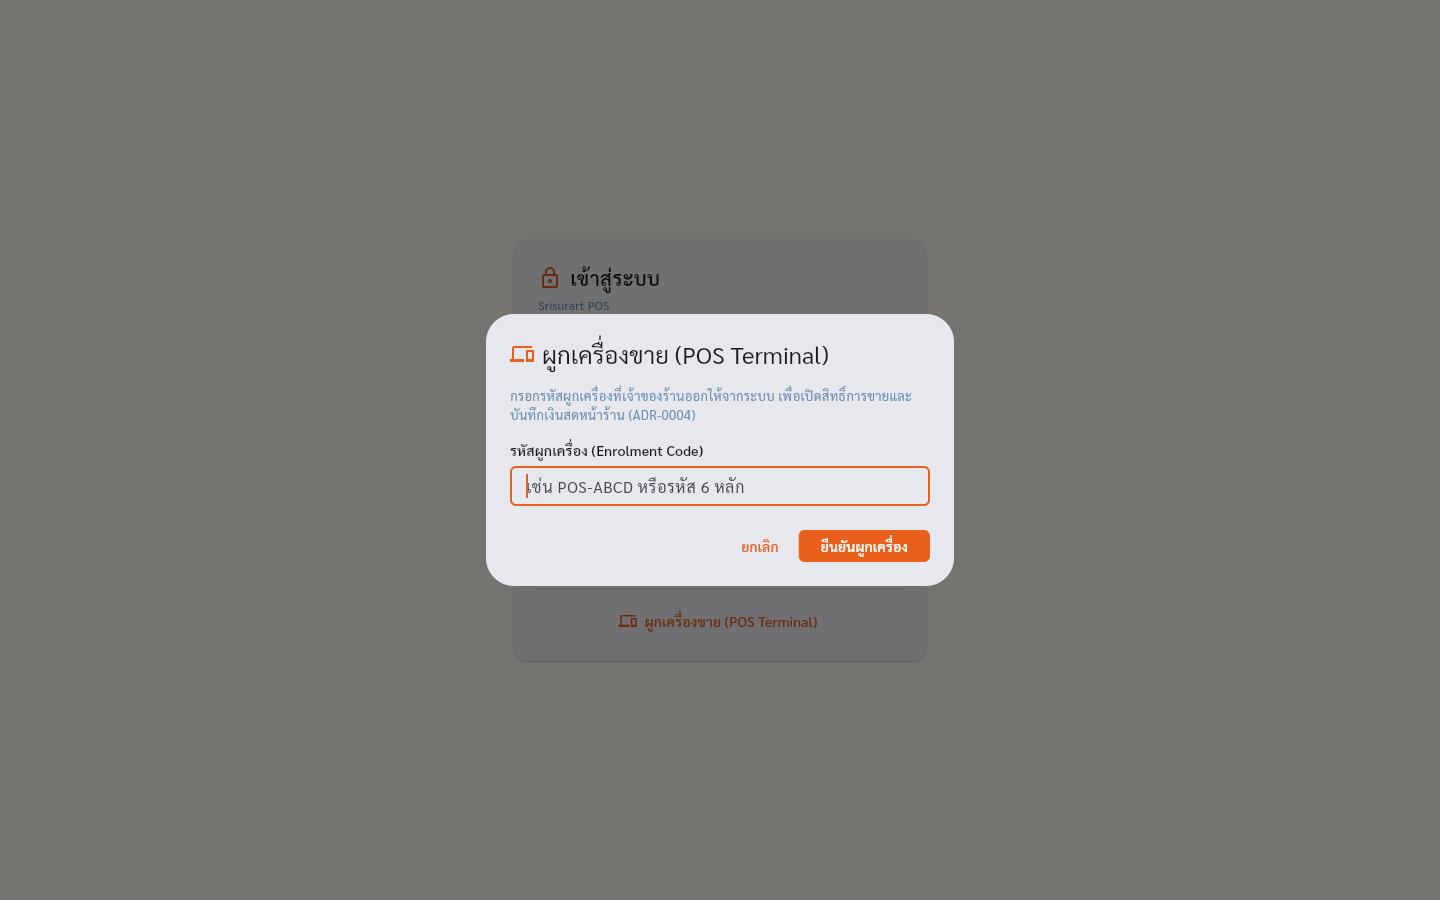
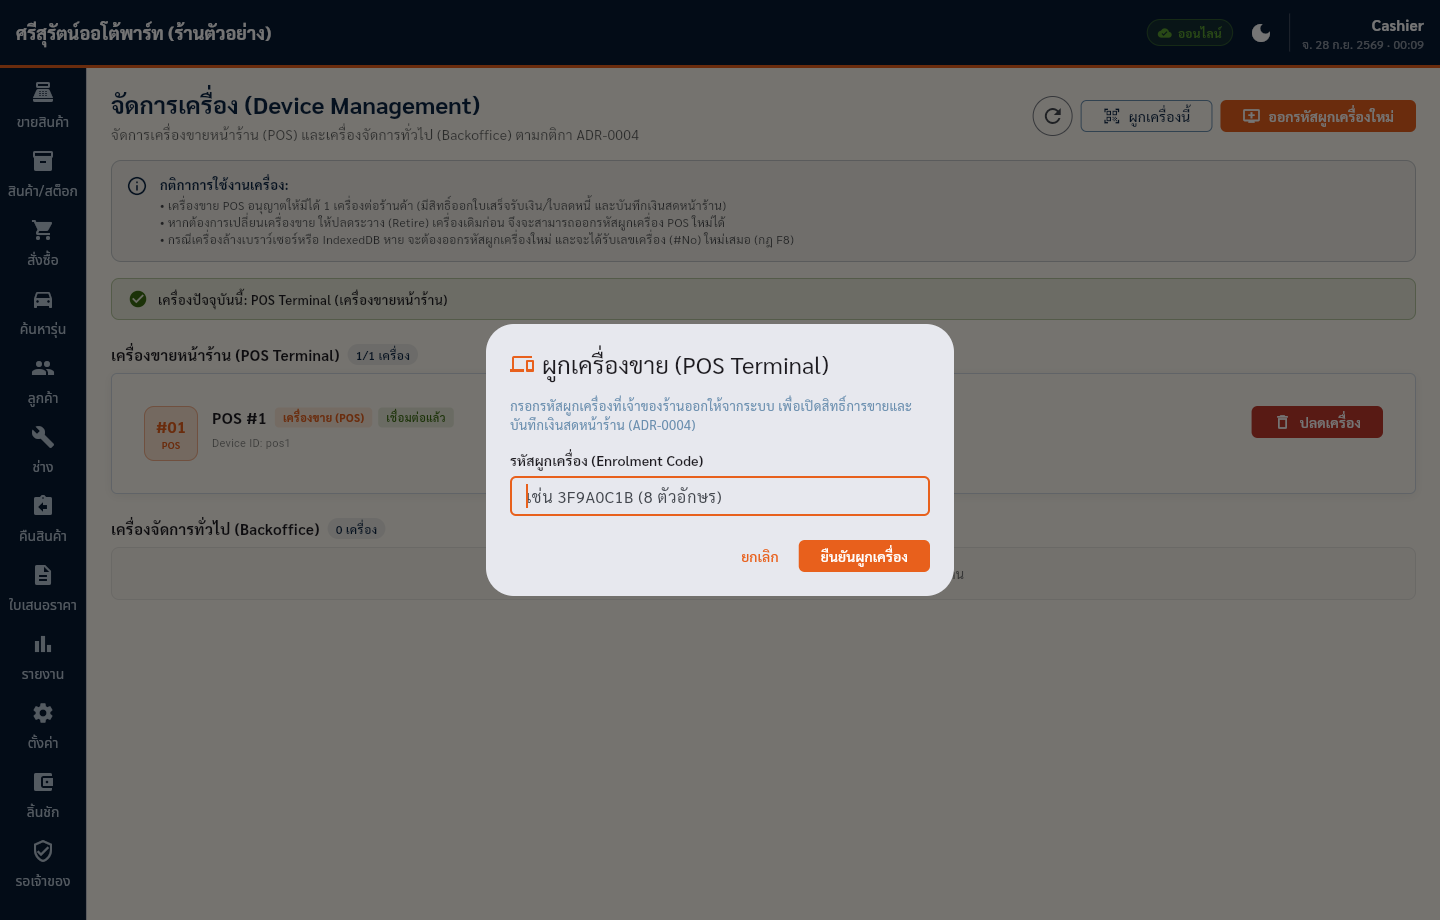
docs(manual): standards-review fixes; post-fix screenshots (next shift, reports phone, enrol dialog, enrol code, devices)

diff --git a/docs/tutorial/sri-pos-manual/01-counter-staff.html b/docs/tutorial/sri-pos-manual/01-counter-staff.html
@@ -46,7 +46,7 @@
     <a class="toc-row" href="#receipt"><span class="n">4</span><span class="t">ราคาช่าง · เครดิตช่าง · ใบเสร็จ <span class="en">Mechanic &amp; receipt</span></span><span class="pg">5</span></a>
     <a class="toc-row" href="#park"><span class="n">5</span><span class="t">พักบิล · ใบเสนอราคา <span class="en">Park &amp; quotes</span></span><span class="pg">6</span></a>
     <a class="toc-row" href="#returns"><span class="n">6</span><span class="t">คืนสินค้า · ยกเลิกบิล <span class="en">Returns &amp; void</span></span><span class="pg">7</span></a>
-    <a class="toc-row" href="#close"><span class="n">7</span><span class="t">เงินเข้า-ออก · ปิดกะ · เปิดกะถัดไป <span class="en">Drawer &amp; close</span></span><span class="pg">8</span></a>
+    <a class="toc-row" href="#close"><span class="n">7</span><span class="t">เงินเข้า-ออก · ปิดกะ · เปิดกะถัดไป <span class="en">Drawer, close &amp; next shift</span></span><span class="pg">8</span></a>
     <a class="toc-row" href="#offline"><span class="n">8</span><span class="t">เมื่อเน็ตหลุด · สถานะซิงก์ <span class="en">Offline &amp; sync</span></span><span class="pg">9</span></a>
     <a class="toc-row" href="#errors"><span class="n">9</span><span class="t">ข้อความผิดพลาดที่พบบ่อย · ข้อจำกัด <span class="en">Errors</span></span><span class="pg">10</span></a>
   </div>
@@ -157,7 +157,7 @@
     <tr><th>ถ้าเห็น</th><th>หมายความว่า / ทำอย่างไร</th></tr>
     <tr><td><span class="msg">ไม่พบอะไหล่สำหรับ "{query}"</span> · <span class="msg">ลองค้นหาด้วยชื่ออื่น หรือตรวจสอบฟิลด์ Compat ในสต็อก</span></td><td>ลองคำสั้นลง (เช่น "Vigo" แทน "Toyota Vigo 2010") · ถ้ารู้ว่ามีของแต่ไม่ขึ้น ให้เจ้าของร้านเติมช่อง "ใช้กับรถรุ่น" ของสินค้านั้น (ภาค 02 หัวข้อ 4)</td></tr>
   </table>
-  <p class="muted">ผลค้นหาดีแค่ไหนขึ้นกับการกรอกช่อง "ใช้กับรถรุ่น" ตอนเพิ่มสินค้า · ในภาพ คำที่ตรงกับคำค้นถูกไฮไลต์สีส้มทับจนอ่านยาก (ข้อสังเกตจากการถ่ายภาพ ยังไม่มี issue)</p>
+  <p class="muted">ผลค้นหาดีแค่ไหนขึ้นกับการกรอกช่อง "ใช้กับรถรุ่น" ตอนเพิ่มสินค้า</p>
   <div class="runfoot"><span>ภาค 01 · พนักงานหน้าร้าน</span><span class="pagenum">4.1</span></div>
 </section>
 
@@ -218,7 +218,7 @@
 
   <h2 class="sub" id="quote-a4">พิมพ์ใบเสนอราคา A4 ให้ลูกค้า <span class="en">A4 quote</span></h2>
   <ol class="steps">
-    <li><span class="st-title">เมนู <span class="ui ghost">ใบเสนอราคา</span> → ค้นในช่อง <span class="ui ghost">🔍 ค้นเลขที่ / ลูกค้า / ช่าง</span></span>หรือกรองด้วย <span class="ui ghost">ยังใช้ได้</span> — ป้ายบนแถวบอก <span class="msg">ยังใช้ได้ {validDays} วัน</span> (วันที่เหลือ) ·<span class="msg">หมดอายุ</span> · <span class="msg">✓ แปลงแล้ว</span></li>
+    <li><span class="st-title">เมนู <span class="ui ghost">ใบเสนอราคา</span> → ค้นในช่อง <span class="ui ghost">🔍 ค้นเลขที่ / ลูกค้า / ช่าง</span></span>หรือกรองด้วย <span class="ui ghost">ยังใช้ได้</span> — ป้ายบนแถวบอก <span class="msg">ยังใช้ได้ {validDays} วัน</span> (วันที่เหลือ) · <span class="msg">หมดอายุ</span> · <span class="msg">✓ แปลงแล้ว</span></li>
     <li><span class="st-title">กด <span class="ui ghost">ดู</span> ที่แถว</span><span class="see">ใบ A4 หัว <span class="msg">ใบเสนอราคา</span> / <span class="msg">QUOTATION</span> ชื่อลูกค้า (<span class="msg">— ลูกค้าทั่วไป —</span> ถ้าไม่ได้เลือก) วันที่ <span class="msg">ใช้ได้ถึง</span> รายการ ยอดรวม เงื่อนไข และช่องลายมือชื่อ</span></li>
     <li><span class="st-title">กดไอคอนเครื่องพิมพ์ในแถบสีส้มด้านล่าง</span>→ หน้าต่างพิมพ์ของเครื่อง (เลือก A4 หรือบันทึกเป็น PDF) · ไอคอนแชร์ข้าง ๆ ใช้ส่งไฟล์</li>
     <li><span class="st-title">ปิดด้วย ✕ มุมซ้ายบน</span>หรือกด <span class="ui ghost">✓ แปลงเป็นการขาย</span> มุมขวาบนถ้าลูกค้าตกลงซื้อเลย (มีเฉพาะใบที่ยังไม่หมดอายุและยังไม่แปลง)</li>
@@ -293,7 +293,7 @@
   <p>ระบบรองรับหลายกะต่อวัน (08 §11 · #452) — เช่น เปลี่ยนคนเฝ้าเคาน์เตอร์ตอนบ่าย</p>
   <ol class="steps">
     <li><span class="st-title">ปิดกะปัจจุบันให้เรียบร้อยตามขั้นตอนด้านบน</span></li>
-    <li><span class="st-title">ที่หน้า <span class="ui ghost">ลิ้นชัก</span> ทั้งสองแท็บจะมีการ์ด <span class="msg">เปิดกะใหม่</span></span><span class="msg">กรอกเงินตั้งต้นในลิ้นชักก่อนเริ่มขาย</span></li>
+    <li><span class="st-title">ที่หน้า <span class="ui ghost">ลิ้นชัก</span> ทั้งสองแท็บจะมีการ์ด <span class="msg">เปิดกะใหม่</span></span><span class="see">การ์ดบอก <span class="msg">กรอกเงินตั้งต้นในลิ้นชักก่อนเริ่มขาย</span> พร้อมช่องเงินตั้งต้นและปุ่มลัด</span></li>
     <li><span class="st-title">นับเงินที่ส่งต่อในลิ้นชัก กรอก <span class="ui ghost">เงินตั้งต้น ฿</span> (หรือปุ่มลัด) → กด <span class="ui">เปิดกะใหม่</span></span><span class="see">กลับไปแท็บ <span class="ui ghost">💵 รายการเงิน</span> ของกะใหม่ — ยอดเงินสดที่ควรมีนับเฉพาะตั้งแต่เปิดกะนี้</span></li>
   </ol>
   <p class="muted">ข้อความ <span class="msg">เปิดกะใหม่</span> ยังเป็นร่างที่ทีมเขียน (02_API_SCREENS §8.1.1) · ภาพหน้าจอในคู่มือถ่ายก่อนมีการ์ดนี้</p>

diff --git a/docs/tutorial/sri-pos-manual/02-owner-backoffice.html b/docs/tutorial/sri-pos-manual/02-owner-backoffice.html
@@ -47,7 +47,7 @@
     <a class="toc-row" href="#po"><span class="n">5</span><span class="t">ใบสั่งซื้อ · รับของ <span class="en">Purchase orders</span></span><span class="pg">6</span></a>
     <a class="toc-row" href="#people"><span class="n">6</span><span class="t">ลูกค้า · ช่าง · รับชำระเครดิต <span class="en">Customers &amp; mechanics</span></span><span class="pg">7</span></a>
     <a class="toc-row" href="#reports"><span class="n">7</span><span class="t">รายงาน · สรุปยอดปิดร้าน <span class="en">Reports</span></span><span class="pg">8</span></a>
-    <a class="toc-row" href="#settings"><span class="n">8</span><span class="t">ตั้งค่า · ธีม · สำรอง/กู้คืน · ส่งออก CSV <span class="en">Settings</span></span><span class="pg">9</span></a>
+    <a class="toc-row" href="#settings"><span class="n">8</span><span class="t">ตั้งค่า · ธีม · สำรอง/กู้คืน · ส่งออก CSV <span class="en">Settings &amp; theme</span></span><span class="pg">9</span></a>
     <a class="toc-row" href="#review"><span class="n">9</span><span class="t">หน้า รอเจ้าของ <span class="en">Owner review</span></span><span class="pg">10</span></a>
     <a class="toc-row" href="#eod"><span class="n">10</span><span class="t">SOP สิ้นวัน · ข้อจำกัด <span class="en">End of day</span></span><span class="pg">11</span></a>
   </div>
@@ -166,12 +166,9 @@
   <ol class="steps">
     <li><span class="st-title">แถวสินค้า → <span class="ui ghost">ปรับสต็อก</span></span></li>
     <li><span class="st-title">กรอก <span class="ui ghost">จำนวนที่ปรับ (+ เพิ่ม / - ลด)</span> เช่น <code>+10</code> หรือ <code>-3</code> และ <span class="ui ghost">หมายเหตุ</span></span><span class="see"><span class="msg">สต็อกหลังปรับ</span> — ลดต่ำกว่า 0 ไม่ได้ ระบบหยุดที่ 0 และบันทึกประวัติทุกครั้ง</span></li>
-  </ol>
-
-  <figure><img src="img/adjust-stock.png" alt="หน้าต่าง ปรับสต็อก · Adjust Stock — สต็อกปัจจุบัน 2 จำนวนที่ปรับ +6 สต็อกหลังปรับ 8" loading="lazy"><figcaption>ปรับสต็อก — กรอก +6 แล้วเห็น "สต็อกหลังปรับ" 8 ก่อนกด บันทึก</figcaption></figure>
-  <ol class="steps" style="counter-reset: step 2">
     <li><span class="st-title">กด <span class="ui">บันทึก</span></span>ประวัติอยู่ที่แท็บ <span class="ui ghost">รายงานสต็อก · Reports</span> → <span class="ui ghost">ประวัติสต็อก</span></li>
   </ol>
+  <figure><img src="img/adjust-stock.png" alt="หน้าต่าง ปรับสต็อก · Adjust Stock — สต็อกปัจจุบัน 2 จำนวนที่ปรับ +6 สต็อกหลังปรับ 8" loading="lazy"><figcaption>ปรับสต็อก — กรอก +6 แล้วเห็น "สต็อกหลังปรับ" 8 ก่อนกด บันทึก</figcaption></figure>
 
   <h2 class="sub">งานอื่นในหน้านี้ <span class="en">Other</span></h2>
   <ul class="ticks">
@@ -328,7 +325,7 @@
   <h2 class="sub">ข้อมูลร้าน <span class="en">General</span></h2>
   <figure><img src="img/settings.png" alt="แท็บ ⚙ ทั่วไป — ข้อมูลร้านค้า · Shop Information" loading="lazy"><figcaption>แท็บ ⚙ ทั่วไป — ข้อมูลร้านค้า · Shop Information</figcaption></figure>
   <ol class="steps">
-    <li><span class="st-title">แท็บ <span class="ui ghost">⚙ ทั่วไป</span></span>ชื่อร้าน (TH/EN) เบอร์ ชื่อแคชเชียร์ ที่อยู่ VAT (%) <span class="ui ghost">ใบเสนอราคา · มีอายุ (วัน)</span></li>
+    <li><span class="st-title">แท็บ <span class="ui ghost">⚙ ทั่วไป</span></span>ชื่อร้าน (TH/EN) เบอร์ ชื่อแคชเชียร์ ที่อยู่ VAT (%) <span class="ui ghost">ใบเสนอราคา · มีอายุ (วัน)</span> (ใช้กับใบเสนอราคาที่ออกหลังบันทึก — ภาค 01 หัวข้อ 5)</li>
     <li><span class="st-title">กด <span class="ui">บันทึกการตั้งค่า</span></span><span class="see"><span class="msg">✓ บันทึกแล้ว</span> (ปุ่มกดได้เฉพาะตอนออนไลน์)</span></li>
   </ol>
   <div class="note key"><span class="nt">ค่าตั้งร้านอยู่ที่เซิร์ฟเวอร์ (API build)</span>ปุ่ม <span class="ui">บันทึกการตั้งค่า</span> ส่งค่าขึ้นเซิร์ฟเวอร์ (<code>PATCH /settings</code>) — ตอนออฟไลน์ถูกปฏิเสธด้วย <span class="msg">ระบบอยู่ในสถานะออฟไลน์ ไม่สามารถบันทึกการตั้งค่าได้</span> ไม่มีการเก็บไว้ส่งทีหลัง · ทุกเครื่องดึงค่าตั้งล่าสุดจากเซิร์ฟเวอร์เองทุกครั้งที่เข้าสู่ระบบ (#460) — ชื่อร้านที่ทีมแพลตฟอร์มตั้งตอนสร้างร้านจึงขึ้นบนหัวจอและใบเสร็จตั้งแต่เข้าสู่ระบบครั้งแรก · เครื่องที่เปิดค้างไว้จะเห็นค่าที่แก้จากเครื่องอื่นเมื่อเข้าสู่ระบบใหม่หรือรีโหลดหน้าเว็บ</div>
@@ -358,7 +355,6 @@
   <div class="limits"><span class="nt">ข้อจำกัดปัจจุบัน <span class="en">Current limitations</span></span>
     <ul class="ticks">
       <li>สำรอง/กู้คืนในหน้านี้ทำกับ <strong>ฐานข้อมูลในเครื่องนี้</strong> — เหมาะกับ Drift build · ใน API build ข้อมูลจริงอยู่บนเซิร์ฟเวอร์ และการกู้คืนในหน้านี้ <strong>ไม่ได้เขียนกลับขึ้นเซิร์ฟเวอร์</strong> · เซิร์ฟเวอร์มีงานส่งออกข้อมูลร้าน (<code>POST /backup/export</code>) แต่แอปยังไม่มีปุ่มเรียก</li>
-      <li>ช่อง <span class="ui ghost">ใบเสนอราคา · มีอายุ (วัน)</span> ใช้กับใบเสนอราคาที่ออก <strong>หลัง</strong> บันทึกค่าเท่านั้น (#464) — ใบที่ออกไปแล้วไม่เปลี่ยนตาม</li>
       <li>การสำรองข้อมูลฝั่งเซิร์ฟเวอร์ยังไม่ออกนอก VM (ภาค 04)</li>
     </ul>
   </div>

diff --git a/docs/tutorial/sri-pos-manual/04-it-operations.html b/docs/tutorial/sri-pos-manual/04-it-operations.html
@@ -42,7 +42,7 @@
     <a class="toc-row" href="#map"><span class="n">2</span><span class="t">แผนผังบริการ · URL <span class="en">Service map</span></span><span class="pg">3</span></a>
     <a class="toc-row" href="#health"><span class="n">3</span><span class="t">ตรวจสุขภาพระบบ <span class="en">Health checks</span></span><span class="pg">4</span></a>
     <a class="toc-row" href="#deploy"><span class="n">4</span><span class="t">Deploy ขึ้น mob04 · อนุมัติ · ย้อนเวอร์ชัน <span class="en">Deploy &amp; rollback</span></span><span class="pg">5</span></a>
-    <a class="toc-row" href="#backup"><span class="n">5</span><span class="t">สำรองข้อมูล · etcd · log level <span class="en">Backup &amp; etcd</span></span><span class="pg">6</span></a>
+    <a class="toc-row" href="#backup"><span class="n">5</span><span class="t">สำรองข้อมูล · etcd · log level <span class="en">Backup, etcd &amp; log level</span></span><span class="pg">6</span></a>
     <a class="toc-row" href="#secrets"><span class="n">6</span><span class="t">ความลับ · กฎ <code>.env</code> <span class="en">Secrets</span></span><span class="pg">7</span></a>
     <a class="toc-row" href="#trouble"><span class="n">7</span><span class="t">แก้ปัญหา · ข้อจำกัด <span class="en">Troubleshooting</span></span><span class="pg">8</span></a>
   </div>

diff --git a/docs/tutorial/sri-pos-manual/style.css b/docs/tutorial/sri-pos-manual/style.css
@@ -1,7 +1,7 @@
 /* Srisurart POS manual — shared stylesheet.
    Visual language taken from the JS-era manual (docs/tutorial/JS/): A4 pages,
    navy/orange brand, Sarabun + Barlow Condensed. Additions: role box,
-   limitations box, tables, command blocks, screenshot placeholders, part nav,
+   limitations box, tables, command blocks, annotated screenshots, part nav,
    and a narrow-screen layout so the pages read on a phone. */
 
 :root {
@@ -145,12 +145,6 @@ ol.annot-legend li::before {
   position: absolute; left: 0; top: 1px; width: 24px; height: 24px; border-radius: 50%;
   background: var(--orange); color: #fff; font-family: 'Barlow Condensed', sans-serif;
   font-weight: 800; font-size: 14px; display: flex; align-items: center; justify-content: center;
-}
-.shot-placeholder {
-  border: 2px dashed #C9C4B5; border-radius: 8px; background: repeating-linear-gradient(
-    45deg, var(--cream), var(--cream) 12px, #F4F0E4 12px, #F4F0E4 24px);
-  color: var(--ink-soft); text-align: center; padding: 34px 16px; font-weight: 600;
-  font-size: 14px;
 }
 
 /* ── STEPS ───────────────────────────────────── */
